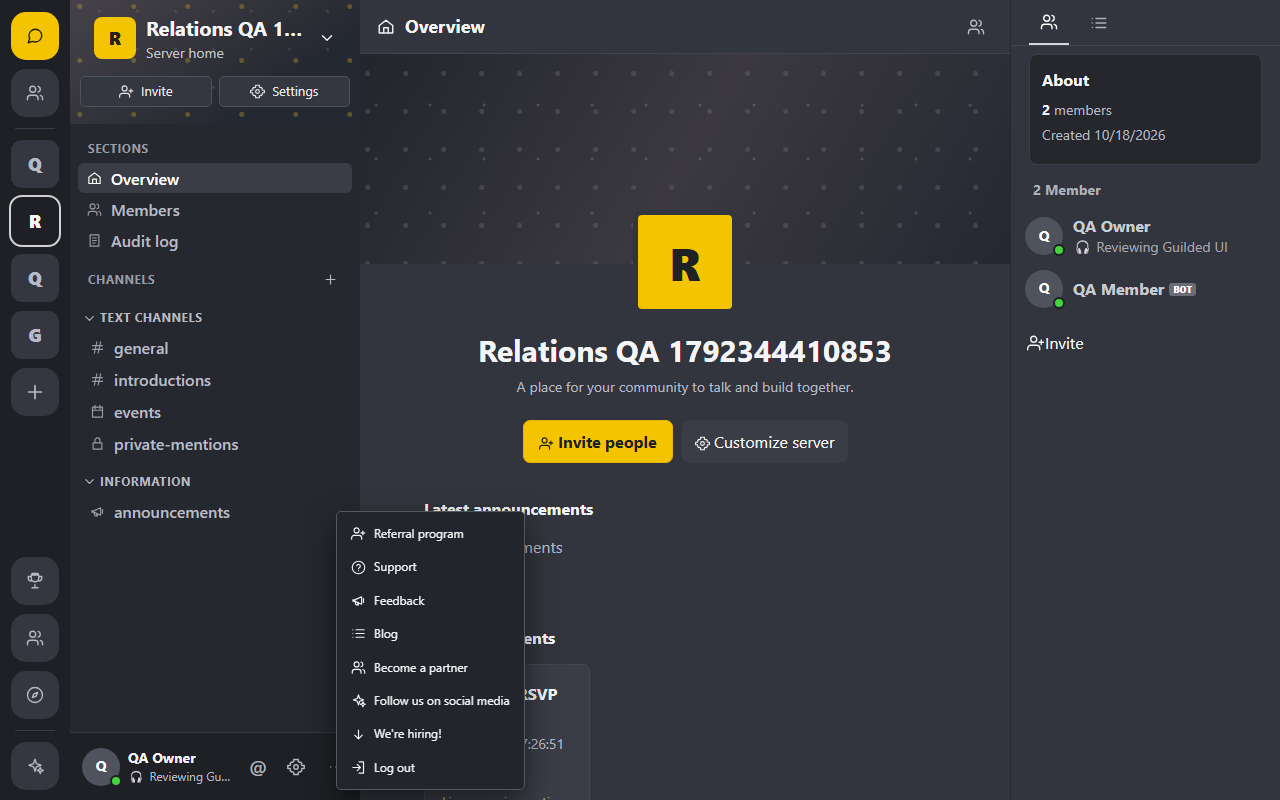
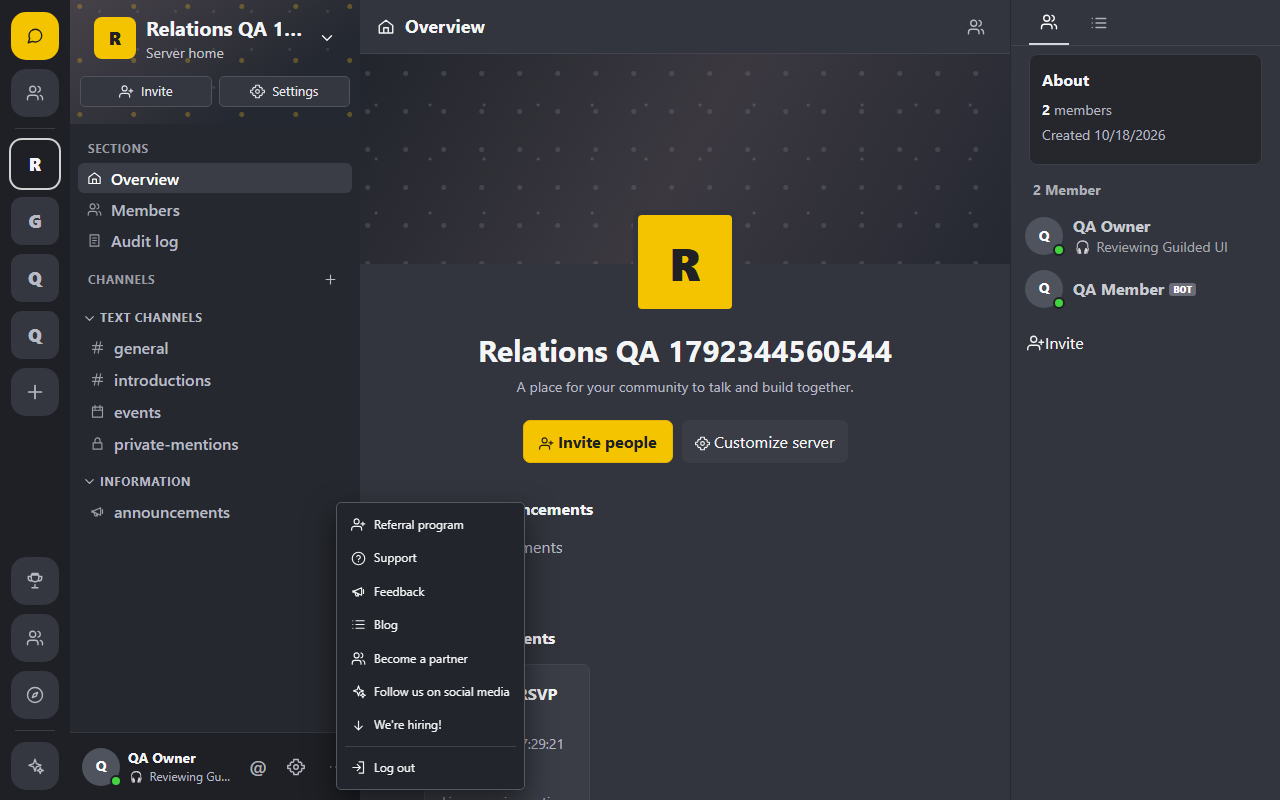
Polish profile menu grouping

diff --git a/static/guilded.js b/static/guilded.js
@@ -777,7 +777,9 @@
     el.innerHTML = items
       .map(
         (item) =>
-          `<button role="menuitem" class="${item.danger ? "danger" : ""}" data-action="${item.action}" ${item.id ? `data-id="${item.id}"` : ""} ${item.dir ? `data-dir="${item.dir}"` : ""}>${icon(item.icon, "sm")}${escapeHtml(item.label)}</button>`,
+          item.separator
+            ? '<div class="context-menu-divider" role="separator"></div>'
+            : `<button role="menuitem" class="${item.danger ? "danger" : ""}" data-action="${item.action}" ${item.id ? `data-id="${item.id}"` : ""} ${item.dir ? `data-dir="${item.dir}"` : ""}>${icon(item.icon, "sm")}${escapeHtml(item.label)}</button>`,
       )
       .join("");
     document.body.appendChild(el);
@@ -1335,6 +1337,7 @@
         );
         if (state.user?.is_platform_staff)
           entries.push({ label: "Staff panel", action: "staff-panel", icon: "shield" });
+        entries.push({ separator: true });
         entries.push({ label: "Log out", action: "logout", icon: "logout" });
         menu(entries, event.clientX, event.clientY);
         return;

diff --git a/static/guilded-reference.css b/static/guilded-reference.css
@@ -141,6 +141,7 @@ dialog.invite-dialog{width:min(810px,calc(100vw - 24px));max-height:min(520px,ca
 .profilebar .profile-identity .who{flex:1;min-width:0}
 .mention-trigger{flex:none;width:28px;height:28px;color:#aeb1ba;font-size:19px;font-weight:600;line-height:1}
 .mention-trigger:hover{color:#f4f4f5;background:#ffffff12}
+.context-menu-divider{height:1px;margin:4px 3px;background:#3e4149}
 .mention-feed{display:grid;gap:6px}
 .mention-entry{display:block;width:100%;padding:11px 12px;border-radius:4px;background:#2b2e35;text-align:left}
 .mention-entry:hover{background:#3b3e48}
